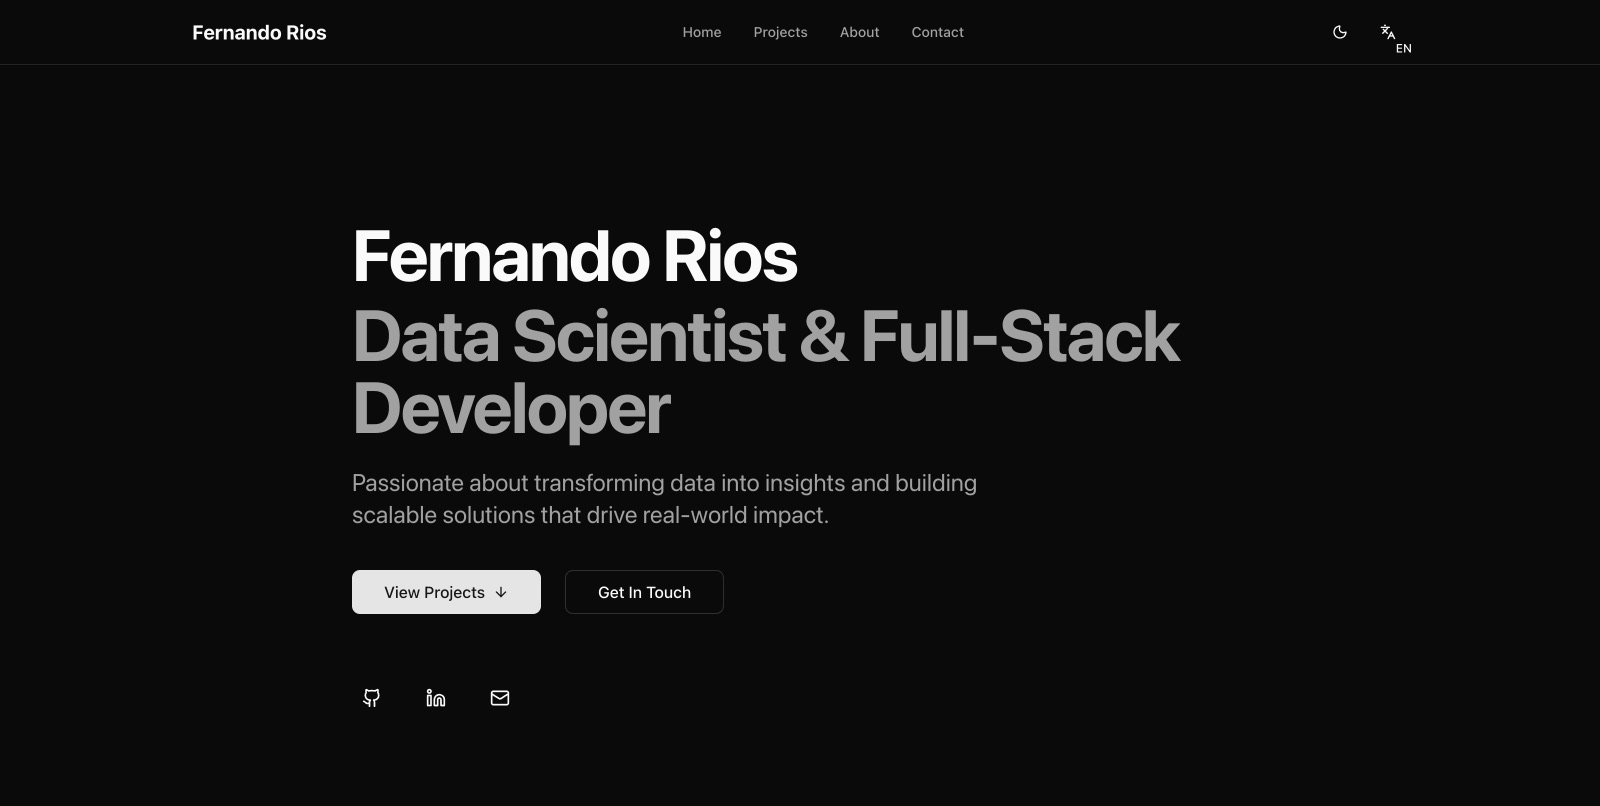
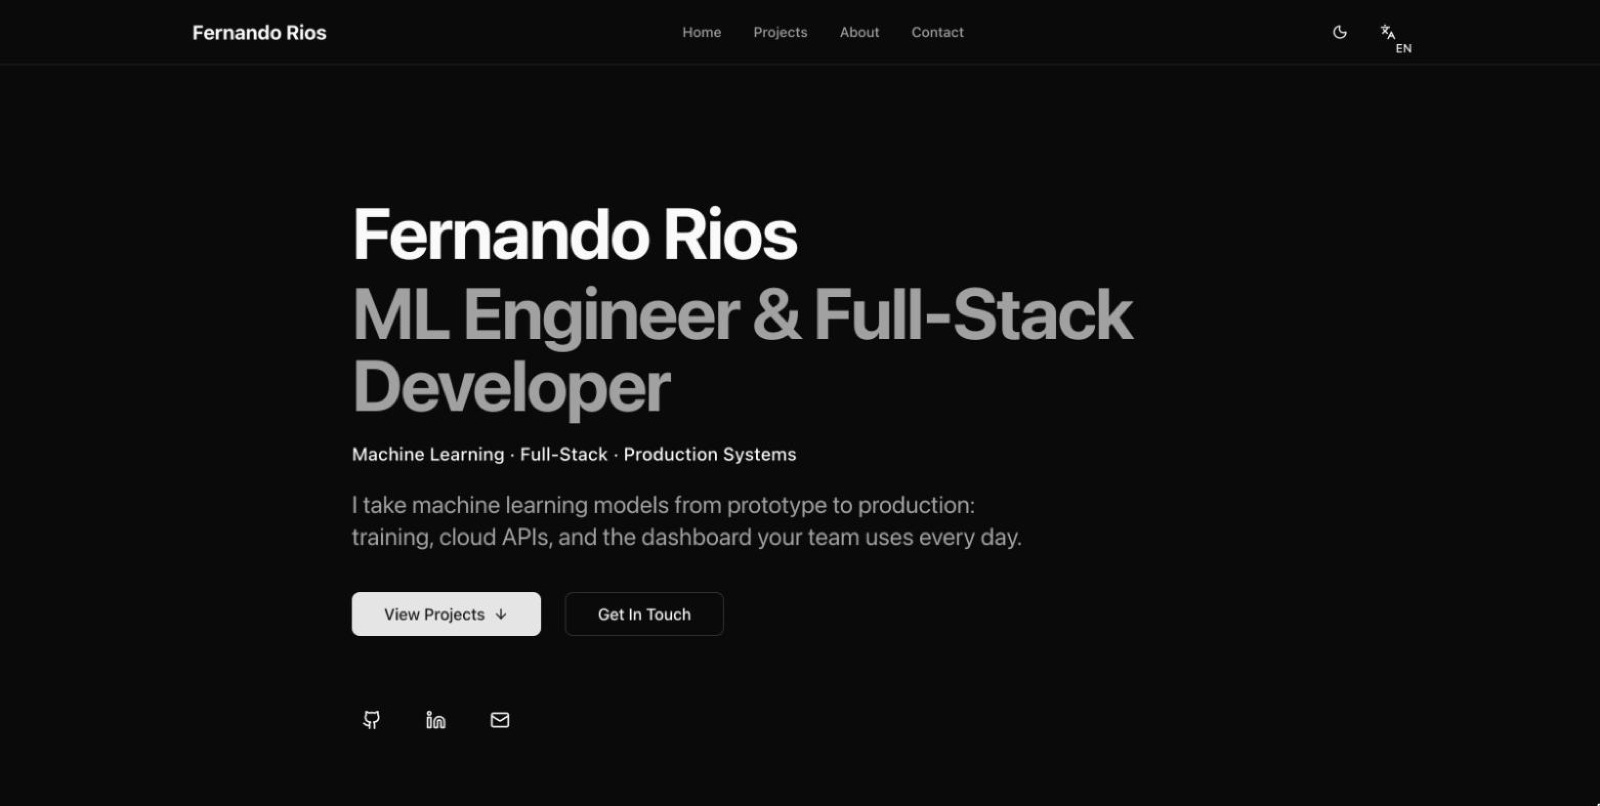
refactor: drop the duplicated stack subtitle and refresh the site screenshots
The stack subtitle and the "What I can cover" block above it both opened
with "I can take a problem", one scroll apart. Once "the stack below is the
evidence" came out, the subtitle's only remaining contribution over the
block above was the word "monitor", so it goes and the detailed block, the
one that names GCP/AWS, CI/CD and the dashboard, stays.

Four of this project's own five screenshots still showed "Data Scientist &
Full-Stack Developer" and the old strapline, contradicting the live hero two
sections up the same page. Recaptured against `next start` rather than the
dev server, which stamps an indicator badge into the bottom-left corner of
anything captured from it. projects-page.jpg had to come last: it contains
the cover thumbnail, and Next kept serving the stale optimized variant until
.next/cache/images was cleared. project-detail.jpg is a Nebluna page and is
untouched.

All four land at 1600x806, matching the files already in the folder. The
16:9 they were meant to be is not reachable here: the display clamps the
browser viewport to 787px tall, so squaring the ratio would mean cropping
content off the sides, and the projects list would lose its outer cards.

The meta description says 5 years freelance now that the experience card
dates it from September 2021.

diff --git a/src/components/sections/about.tsx b/src/components/sections/about.tsx
@@ -183,13 +183,7 @@ export async function About({ locale }: AboutProps) {
         <div className="mt-16">
           <FadeIn direction="up" delay={0.5}>
             <div>
-              <h3 className="mb-2 text-lg font-semibold">{t("techStack.title")}</h3>
-              <p className="mb-8 max-w-3xl text-muted-foreground">
-                <span className="font-semibold text-foreground">
-                  {t("techStack.subtitleLabel")}:
-                </span>{" "}
-                {t("techStack.subtitle")}
-              </p>
+              <h3 className="mb-8 text-lg font-semibold">{t("techStack.title")}</h3>
 
               <StaggerContainer className="space-y-6">
                 {Object.entries(techStack).map(([category, technologies]) => (
